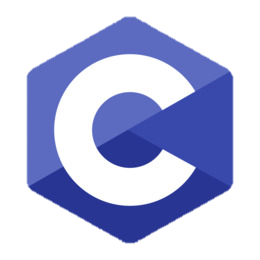
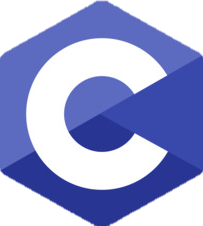
Add final boss level

diff --git a/game.js b/game.js
@@ -12,6 +12,9 @@ class Game {
     this.bullet = new Bullet(this);
     this.screenText = new Screentext(this);
 
+    // Highscores for after game over
+    this.highscore = [];
+
     // Enemies
     this.enemiesArr = [];
     this.createEnemy();
@@ -128,6 +131,18 @@ class Game {
           this.enemiesArr.push(enemy);
         }
         break;
+      case 6: // ADD BOSS BATTLE
+        const enemy = new Enemy(
+          this,
+          generateRandomNumber(1000, 1200),
+          generateRandomNumber(0, 225),
+          300,
+          300,
+          generateRandomNumber(0.9, 1.1), //2.5, 4)
+          5
+        );
+        this.enemiesArr.push(enemy);
+        break;
     }
 
     // setTimeout(() => {
@@ -190,41 +205,80 @@ class Game {
   runLogic() {
     this.player.runLogic();
 
+    if (this.screenText.level === 7) {
+      this.isRunning = false;
+    }
+
     // enemy run logic
-    for (let enemy of this.enemiesArr) {
-      enemy.runLogic();
+    if (this.screenText.level === 6) {
+      for (let enemy of this.enemiesArr) {
+        enemy.runLogic();
 
-      const intersectingWithPlayer = enemy.checkIntersection(this.player);
+        const intersectingWithPlayer = enemy.checkIntersection(this.player);
 
-      // check collision with player
-      if (intersectingWithPlayer) {
-        this.sounds.enemyHitsPlayerSound.play();
-        const index = this.enemiesArr.indexOf(enemy);
-        this.enemiesArr.splice(index, 1);
-        this.player.health -= 20;
+        // check collision with player
+        if (intersectingWithPlayer) {
+          this.sounds.enemyHitsPlayerSound.play();
+          this.player.health = 0; // add game-over directly
+        }
+
+        // check collision with bullet
+        if (this.bullets.length > 0) {
+          this.bullets.forEach(bullet => {
+            const index = this.bullets.indexOf(bullet);
+            const intersectingWithBullet = enemy.checkIntersection(bullet);
+
+            if (intersectingWithBullet) {
+              this.sounds.bulletHittingEnemy.play();
+              this.bullets.splice(index, 1);
+              this.bullet.bulletBossCounter++;
+              console.log(this.bullet.bulletBossCounter);
+            }
+            if (this.bullet.bulletBossCounter === 50) {
+              const index = this.enemiesArr.indexOf(enemy);
+              this.enemiesArr.splice(index, 1);
+              this.screenText.level++;
+            }
+          });
+        }
       }
+    } else {
+      // all the other levels
+      for (let enemy of this.enemiesArr) {
+        enemy.runLogic();
 
-      // check collision with bullet
-      if (this.bullets.length > 0) {
-        const intersectingWithBullet = enemy.checkIntersection(this.bullets[0]);
-        // console.log(intersectingWithBullet);
-        if (intersectingWithBullet) {
-          this.sounds.bulletHittingEnemy.play();
-          this.screenText.enemiesEliminated += 1;
+        const intersectingWithPlayer = enemy.checkIntersection(this.player);
+
+        // check collision with player
+        if (intersectingWithPlayer) {
+          this.sounds.enemyHitsPlayerSound.play();
+          const index = this.enemiesArr.indexOf(enemy);
+          this.enemiesArr.splice(index, 1);
+          this.player.health -= 20;
+        }
+
+        // check collision with bullet
+        if (this.bullets.length > 0) {
+          const intersectingWithBullet = enemy.checkIntersection(this.bullets[0]);
+          // console.log(intersectingWithBullet);
+          if (intersectingWithBullet) {
+            this.sounds.bulletHittingEnemy.play();
+            this.screenText.enemiesEliminated += 1;
+            const index = this.enemiesArr.indexOf(enemy);
+            this.enemiesArr.splice(index, 1);
+          }
+        }
+
+        // eleminate enemy from array if it goes off canvas
+        if (enemy.x + enemy.width < 0) {
           const index = this.enemiesArr.indexOf(enemy);
           this.enemiesArr.splice(index, 1);
         }
       }
-
-      // eleminate enemy from array if it goes off canvas
-      if (enemy.x + enemy.width < 0) {
-        const index = this.enemiesArr.indexOf(enemy);
-        this.enemiesArr.splice(index, 1);
-      }
     }
 
     // push a new enemy into the enemiesArr whenever one is taken out of the game
-    // CHANGE WHEN LEVEL CHANGES
+    // Add New Levels here
 
     switch (this.screenText.level) {
       case 1:
@@ -285,6 +339,20 @@ class Game {
         break;
       case 5:
         if (this.enemiesArr.length < 80) {
+          const enemy = new Enemy(
+            this,
+            generateRandomNumber(1000, 2500),
+            generateRandomNumber(0, 450),
+            50,
+            50,
+            generateRandomNumber(2, 3), //2.5, 4)
+            generateRandomNumber(0, 4)
+          );
+          this.enemiesArr.push(enemy);
+        }
+        break;
+      case 6: // ADD BOSS BATTLE
+        if (this.enemiesArr.length < 1) {
           const enemy = new Enemy(
             this,
             generateRandomNumber(1000, 2500),

diff --git a/screentext.js b/screentext.js
@@ -24,6 +24,9 @@ class Screentext {
       case 40:
         this.level = 5;
         break;
+      case 80:
+        this.level = 6;
+        break;
     }
   }
 
@@ -63,13 +66,13 @@ class Screentext {
     context.fillStyle = 'orange';
     context.font = '50px "Yatra One"';
 
-    context.fillText(`LEVEL ${this.level}`, 450, 550);
+    context.fillText(`LEVEL ${this.level}`, 380, 570);
 
     context.fillStyle = 'white';
     context.font = '20px monospace';
 
     // Prints Health
-    context.fillText(`Code Integrity: ${this.game.player.health}`, 15, 550);
+    context.fillText(`Code Integrity: ${this.game.player.health}`, 15, 570);
 
     // Prints Score
     context.fillText(`Score: ${Math.floor(this.score)}`, 720, 550);
@@ -77,8 +80,9 @@ class Screentext {
     // Prints eliminated enemies
     context.fillText(`Enemies Eliminated: ${this.enemiesEliminated}`, 720, 580);
 
-    context.fillText(`${this.game.bullet.bulletsLeft} x`, 15, 520);
-    context.drawImage(this.game.bullet.image, 60, 505, 70, 20);
+    // Prints Bullets Left
+    context.fillText(`${this.game.bullet.bulletsLeft} x`, 15, 530);
+    context.drawImage(this.game.bullet.image, 75, 513, 70, 20);
 
     context.restore();
   }

diff --git a/enemy.js b/enemy.js
@@ -13,14 +13,17 @@ class Enemy {
     this.java.src = '/img/java.png';
     this.php = new Image();
     this.php.src = '/img/php-logo.png';
-    this.cLang = new Image();
-    this.cLang.src = '/img/c-lang.png';
+    this.cSharp = new Image();
+    this.cSharp.src = '/img/c-sharp.png';
     this.python = new Image();
     this.python.src = '/img/python.png';
     this.ruby = new Image();
     this.ruby.src = '/img/ruby.png';
 
-    this.spriteArr = [this.java, this.php, this.cLang, this.python, this.ruby];
+    this.boss = new Image();
+    this.boss.src = '/img/c-lang.png';
+
+    this.spriteArr = [this.java, this.php, this.cSharp, this.python, this.ruby, this.boss];
 
     this.image = this.spriteArr[this.spriteIndex];
   }

diff --git a/bullet.js b/bullet.js
@@ -11,7 +11,8 @@ class Bullet {
     this.image = new Image();
     this.image.src = '/img/error_404.png';
 
-    this.bulletsLeft = 5;
+    this.bulletsLeft = 50;
+    this.bulletBossCounter = 0;
   }
 
   runLogic() {
